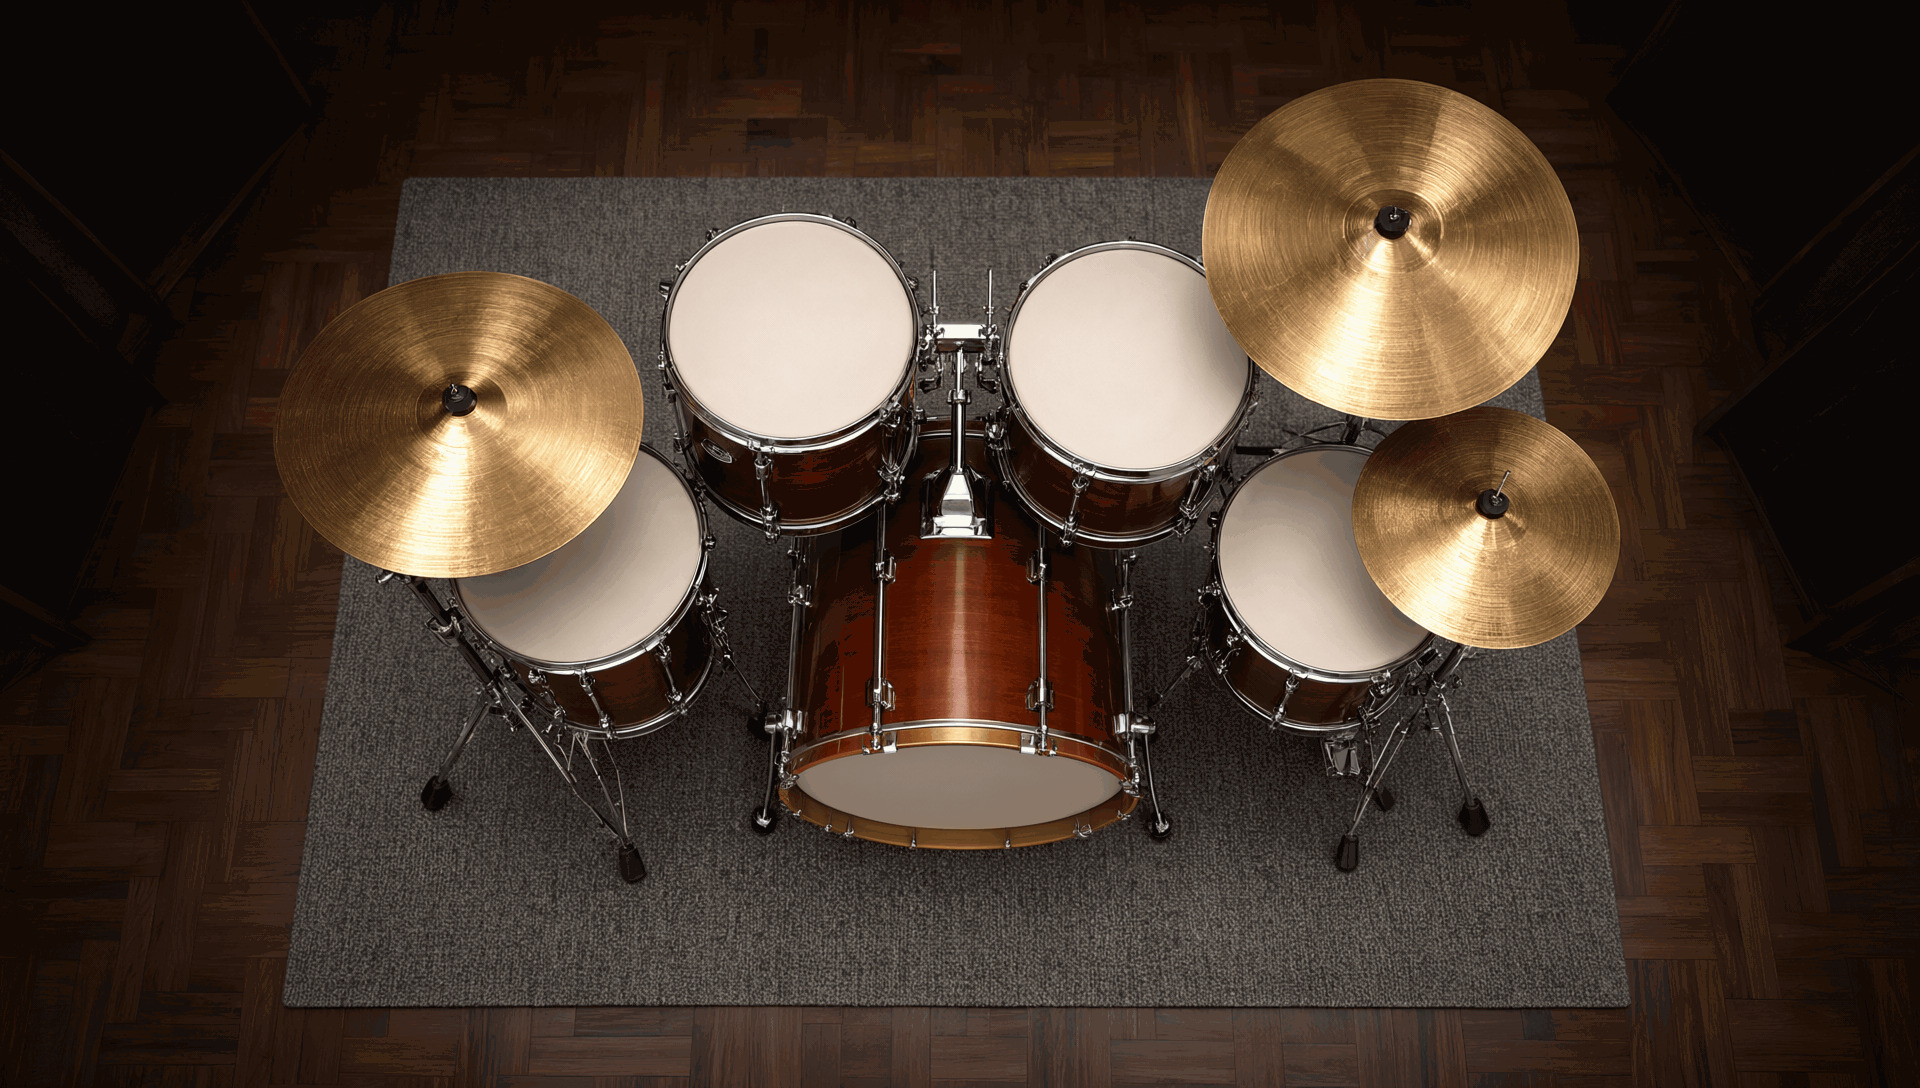
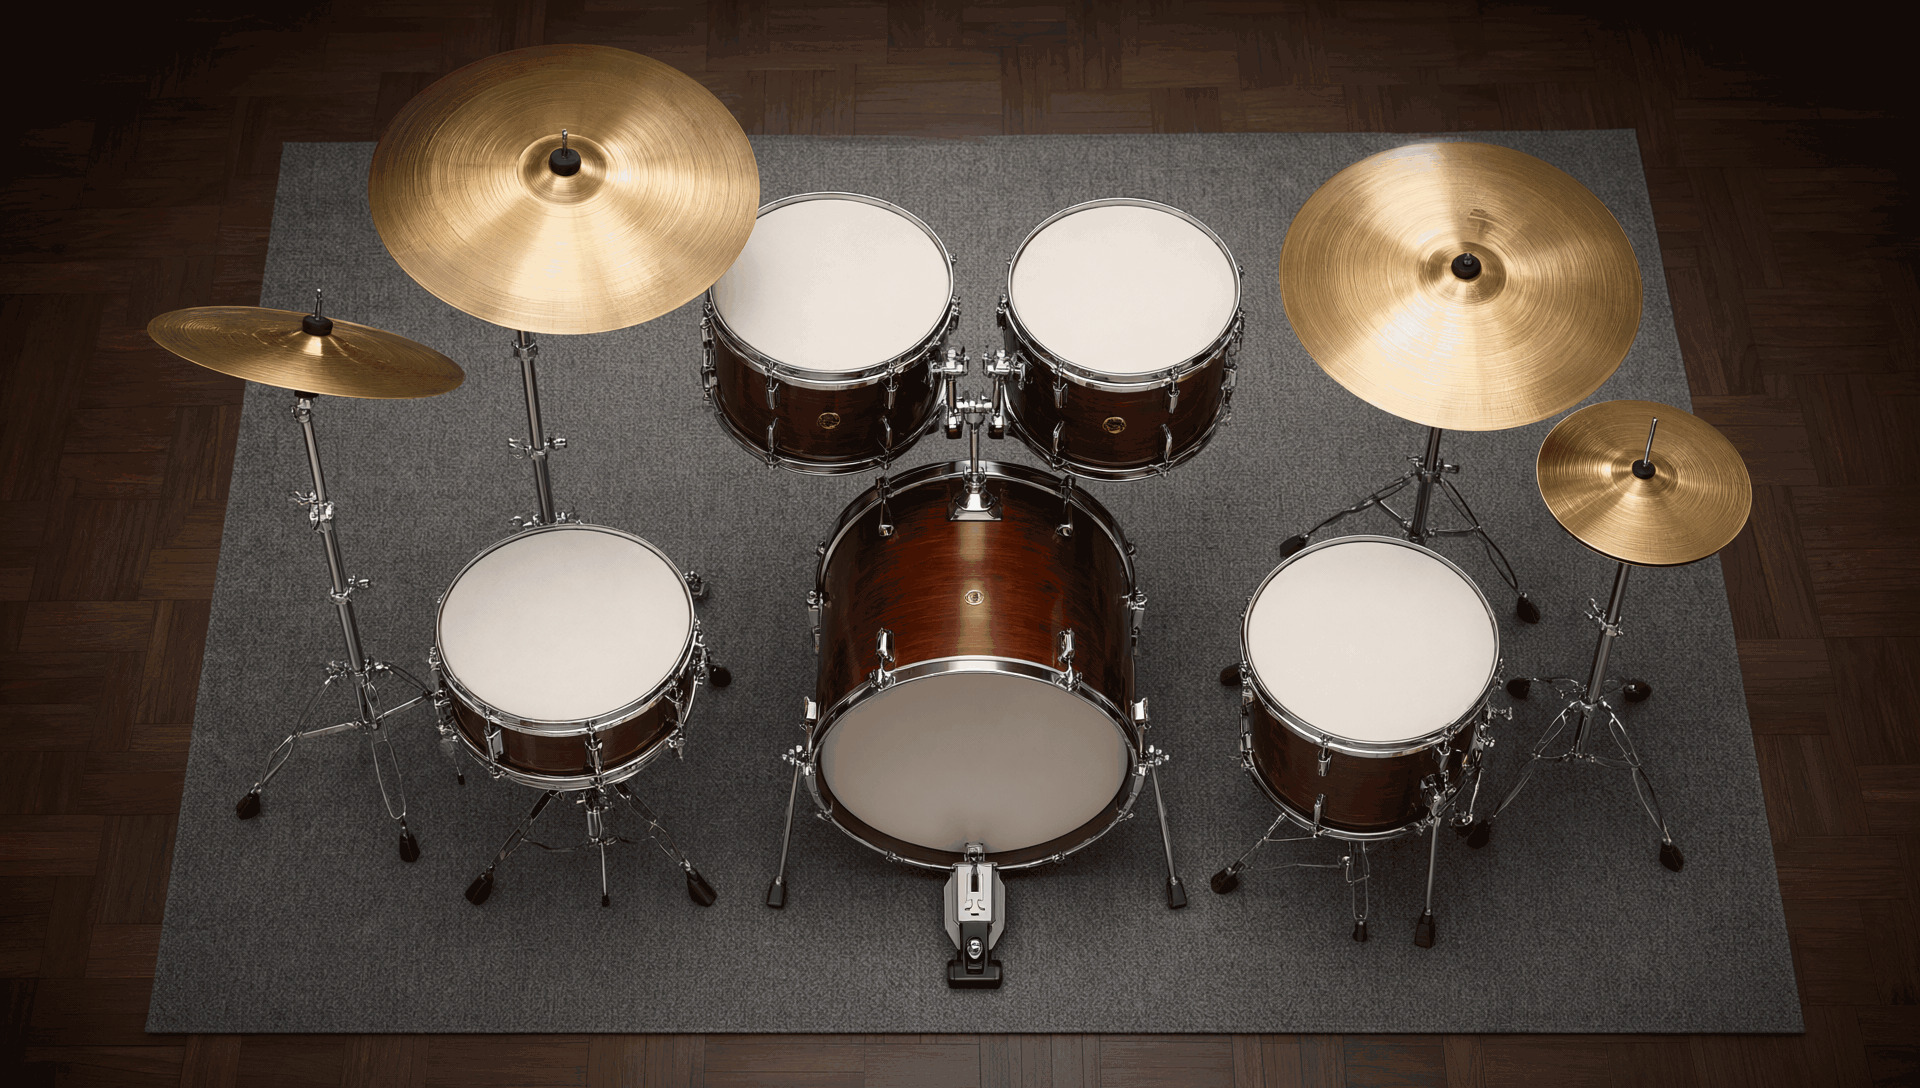
New kit photo with the drummer's-eye layout
Hi-hat and snare on the left, splash on the right; zones support tilted
cymbals, the hi-hat stand plays the pedal and the kick pedal plays the
kick. Splash moves from a pad onto the photo.

diff --git a/src/gui/DrumKitView.cpp b/src/gui/DrumKitView.cpp
@@ -9,6 +9,7 @@ namespace
 struct Oval
 {
     float cx, cy, rx, ry;
+    float angle = 0.0f; // tilted cymbals
 
     juce::Rectangle<float> bounds() const { return { cx - rx, cy - ry, rx * 2.0f, ry * 2.0f }; }
     juce::Point<float> centre() const { return { cx, cy }; }
@@ -17,23 +18,27 @@ struct Oval
     {
         juce::Path p;
         p.addEllipse (bounds().withSizeKeepingCentre (rx * 2.0f * scale, ry * 2.0f * scale));
+        p.applyTransform (juce::AffineTransform::rotation (angle, cx, cy));
         return p;
     }
 };
 
-constexpr Oval tom1Head { 1127.0f, 357.0f, 122.0f, 110.0f };
-constexpr Oval tom2Head { 790.0f, 340.0f, 123.0f, 112.0f };
-constexpr Oval floorTomHead { 582.0f, 562.0f, 124.0f, 107.0f };
-constexpr Oval snareHead { 1327.0f, 560.0f, 112.0f, 113.0f };
-constexpr Oval kickHead { 956.0f, 787.0f, 172.0f, 62.0f };
+constexpr Oval tom1Head { 832.0f, 287.0f, 120.0f, 92.0f };
+constexpr Oval tom2Head { 1122.0f, 288.0f, 119.0f, 88.0f };
+constexpr Oval floorTomHead { 1369.0f, 641.0f, 129.0f, 101.0f };
+constexpr Oval snareHead { 567.0f, 625.0f, 130.0f, 97.0f };
+constexpr Oval kickHead { 973.0f, 746.0f, 161.0f, 112.0f };
 
-constexpr Oval rideOval { 460.0f, 425.0f, 183.0f, 153.0f };
-constexpr Oval rideBellOval { 452.0f, 400.0f, 40.0f, 34.0f };
-constexpr Oval crashOval { 1390.0f, 250.0f, 188.0f, 170.0f };
-constexpr Oval hatOval { 1486.0f, 527.0f, 134.0f, 121.0f };
+constexpr Oval crashOval { 565.0f, 190.0f, 193.0f, 145.0f };
+constexpr Oval rideOval { 1460.0f, 285.0f, 180.0f, 145.0f };
+constexpr Oval rideBellOval { 1462.0f, 268.0f, 40.0f, 30.0f };
+constexpr Oval hatOval { 306.0f, 352.0f, 160.0f, 40.0f, 0.2f };
+constexpr Oval splashOval { 1643.0f, 482.0f, 108.0f, 70.0f, 0.12f };
 
-const juce::Rectangle<float> kickShell { 800.0f, 430.0f, 330.0f, 330.0f };
-const juce::Rectangle<float> kickGlowArea { 800.0f, 470.0f, 330.0f, 290.0f };
+const juce::Rectangle<float> kickShell { 815.0f, 470.0f, 320.0f, 276.0f };
+const juce::Rectangle<float> kickPedal { 940.0f, 860.0f, 70.0f, 130.0f };
+const juce::Rectangle<float> kickGlowArea { 815.0f, 470.0f, 320.0f, 280.0f };
+const juce::Rectangle<float> hatStand { 260.0f, 650.0f, 150.0f, 210.0f };
 
 const Oval& headFor (int piece)
 {
@@ -46,6 +51,7 @@ const Oval& headFor (int piece)
         case kit::crash:    return crashOval;
         case kit::ride:     return rideOval;
         case kit::hihat:    return hatOval;
+        case kit::splash:   return splashOval;
         default:            return kickHead;
     }
 }
@@ -76,23 +82,25 @@ void DrumKitView::buildZones()
 
     const auto hatHelp = "Hi-Hat: center = closed, edge = open, Shift-click = semi-open" + more;
     zones.push_back ({ kit::hatClosed, hatOval.path (0.6f), hatOval.path (0.6f), hatHelp });
-    zones.push_back ({ kit::hatOpen, hatOval.path(), hatOval.path(), hatHelp });
+    zones.push_back ({ kit::hatOpen, hatOval.path (1.15f), hatOval.path(), hatHelp });
+    zones.push_back ({ kit::hatPedal, rectPath (hatStand), rectPath (hatStand), "Hi-Hat pedal" + more });
 
     zones.push_back ({ kit::crashHit, crashOval.path(), crashOval.path(), "Crash" + more });
+    zones.push_back ({ kit::splashHit, splashOval.path(), splashOval.path(), "Splash" + more });
 
     const auto rideHelp = "Ride: bow = ride, center = bell" + more;
     zones.push_back ({ kit::rideBell, rideBellOval.path(), rideBellOval.path(), rideHelp });
     zones.push_back ({ kit::rideHit, rideOval.path(), rideOval.path(), rideHelp });
 
     // Pieces that are not in the photo get pads on the floor.
-    const std::array<std::pair<int, const char*>, 3> padList {{
-        { kit::splashHit, "SPLASH" }, { kit::cowbellHit, "COWBELL" }, { kit::clapHit, "CLAP" } }};
+    const std::array<std::pair<int, const char*>, 2> padList {{
+        { kit::cowbellHit, "COWBELL" }, { kit::clapHit, "CLAP" } }};
     for (size_t i = 0; i < padList.size(); ++i)
     {
         Pad pad;
         pad.articulation = padList[i].first;
         pad.label = padList[i].second;
-        pad.bounds = { 70.0f, 730.0f + 92.0f * (float) i, 200.0f, 76.0f };
+        pad.bounds = { 1690.0f, 890.0f + 88.0f * (float) i, 200.0f, 72.0f };
         pads.push_back (pad);
         juce::Path padShape;
         padShape.addRoundedRectangle (pad.bounds, 12.0f);
@@ -103,7 +111,7 @@ void DrumKitView::buildZones()
     const auto snareHelp = "Snare: center = snare, rim = rimshot, shell = side stick" + more;
     zones.push_back ({ kit::snareHit, snareHead.path (0.72f), snareHead.path (0.72f), snareHelp });
     zones.push_back ({ kit::snareRimshot, snareHead.path (1.05f), snareHead.path(), snareHelp });
-    zones.push_back ({ kit::snareSideStick, rectPath ({ 1215.0f, 560.0f, 226.0f, 175.0f }), snareHead.path (1.08f), snareHelp });
+    zones.push_back ({ kit::snareSideStick, rectPath ({ 437.0f, 625.0f, 260.0f, 160.0f }), snareHead.path (1.08f), snareHelp });
 
     auto drumZone = [] (const Oval& head, float shellBottom)
     {
@@ -112,12 +120,13 @@ void DrumKitView::buildZones()
         return p;
     };
 
-    zones.push_back ({ kit::tom1Hit, drumZone (tom1Head, 540.0f), tom1Head.path(), "Tom 1" + more });
-    zones.push_back ({ kit::tom2Hit, drumZone (tom2Head, 525.0f), tom2Head.path(), "Tom 2" + more });
-    zones.push_back ({ kit::floorTomHit, drumZone (floorTomHead, 735.0f), floorTomHead.path(), "Floor Tom" + more });
+    zones.push_back ({ kit::tom1Hit, drumZone (tom1Head, 470.0f), tom1Head.path(), "Tom 1" + more });
+    zones.push_back ({ kit::tom2Hit, drumZone (tom2Head, 470.0f), tom2Head.path(), "Tom 2" + more });
+    zones.push_back ({ kit::floorTomHit, drumZone (floorTomHead, 835.0f), floorTomHead.path(), "Floor Tom" + more });
 
     auto kickArea = kickHead.path (1.05f);
     kickArea.addRectangle (kickShell);
+    kickArea.addRectangle (kickPedal);
     zones.push_back ({ kit::kickHit, kickArea, kickHead.path(), "Kick" + more });
 }
 
@@ -265,7 +274,7 @@ void DrumKitView::paint (juce::Graphics& g)
 
     // Cymbals are redrawn from the photo on top of the drums, so drum glows
     // stay underneath them and the cymbals can swing.
-    for (const auto piece : { kit::ride, kit::crash, kit::hihat })
+    for (const auto piece : { kit::ride, kit::crash, kit::splash, kit::hihat })
         drawCymbal (g, piece);
 
     drawPads (g);

diff --git a/src/gui/DrumKitView.h b/src/gui/DrumKitView.h
@@ -6,8 +6,8 @@
 
 // The drum kit picture: a top-down photo of the kit with hit zones and hit
 // animations drawn over it. All geometry is in photo pixels; the view scales
-// it to whatever size it is given. Pieces that are not in the photo (splash,
-// cowbell, clap) get pads on the floor.
+// it to whatever size it is given. Pieces that are not in the photo (cowbell,
+// clap) get pads on the floor.
 class DrumKitView final : public juce::Component, private juce::Timer
 {
 public:

diff --git a/tools/Snapshot.cpp b/tools/Snapshot.cpp
@@ -59,7 +59,7 @@ private:
         else if (tick == 15)
             save ("kit-hit.png");
         else if (tick == 30)
-            play ({ 51, 48, 42 }, 90);
+            play ({ 51, 48, 42, 55, 41 }, 90);
         else if (tick == 33)
             save ("kit-hit2.png");
         else if (tick == 40)

diff --git a/README.md b/README.md
@@ -11,8 +11,8 @@
 - Раскладка нот General MIDI, **MIDI Learn** для любой артикуляции (правый клик по барабану).
 - Хай-хэт: закрытый / полуоткрытый / открытый / педаль, взаимное заглушение (choke).
 - Фото установки (вид сверху), которое реагирует на удары: подсветка и волна по пластику,
-  качание и блеск тарелок, открытие хэта. По нему можно играть мышью; Splash, Cowbell
-  и Clap, которых нет на фото, — пэды слева.
+  качание и блеск тарелок, открытие хэта. По нему можно играть мышью; Cowbell
+  и Clap, которых нет на фото, — пэды справа внизу.
 - Микшер: 10 каналов + мастер, громкость, панорама, компрессор, Mute/Solo, индикаторы уровня.
 - Масштабируемое окно, сохранение состояния в проекте DAW.
 
@@ -21,9 +21,9 @@
 | Где кликать | Что звучит |
 |---|---|
 | Малый: центр / обод / корпус | Snare / Rimshot / Side Stick |
-| Хэт (малая правая тарелка): центр / край / Shift+клик | Closed / Open / Semi-Open (Pedal — через правый клик) |
-| Райд (левая тарелка): поле / купол | Ride / Bell |
-| Пэды слева | Splash / Cowbell / Clap |
+| Хэт (левая наклонная тарелка): центр / край / Shift+клик / стойка | Closed / Open / Semi-Open / Pedal |
+| Райд (большая правая): поле / купол | Ride / Bell |
+| Пэды справа внизу | Cowbell / Clap |
 | Правый клик по любому барабану | Все артикуляции, MIDI Learn, сброс нот |
 
 ### Ноты по умолчанию (GM)
